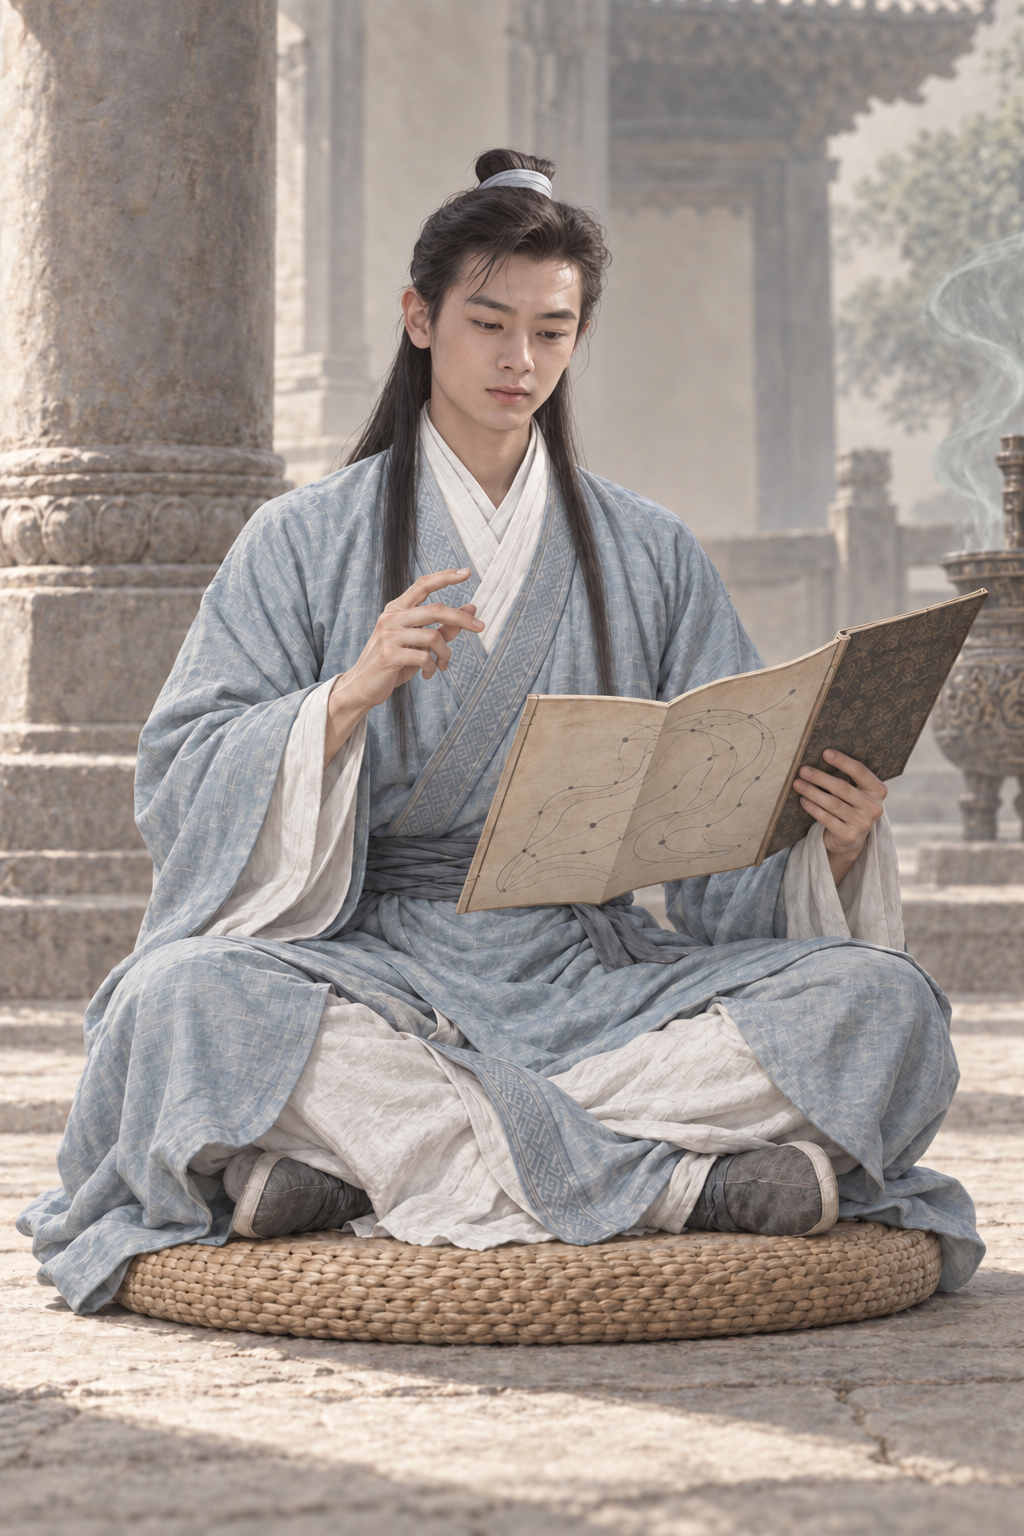
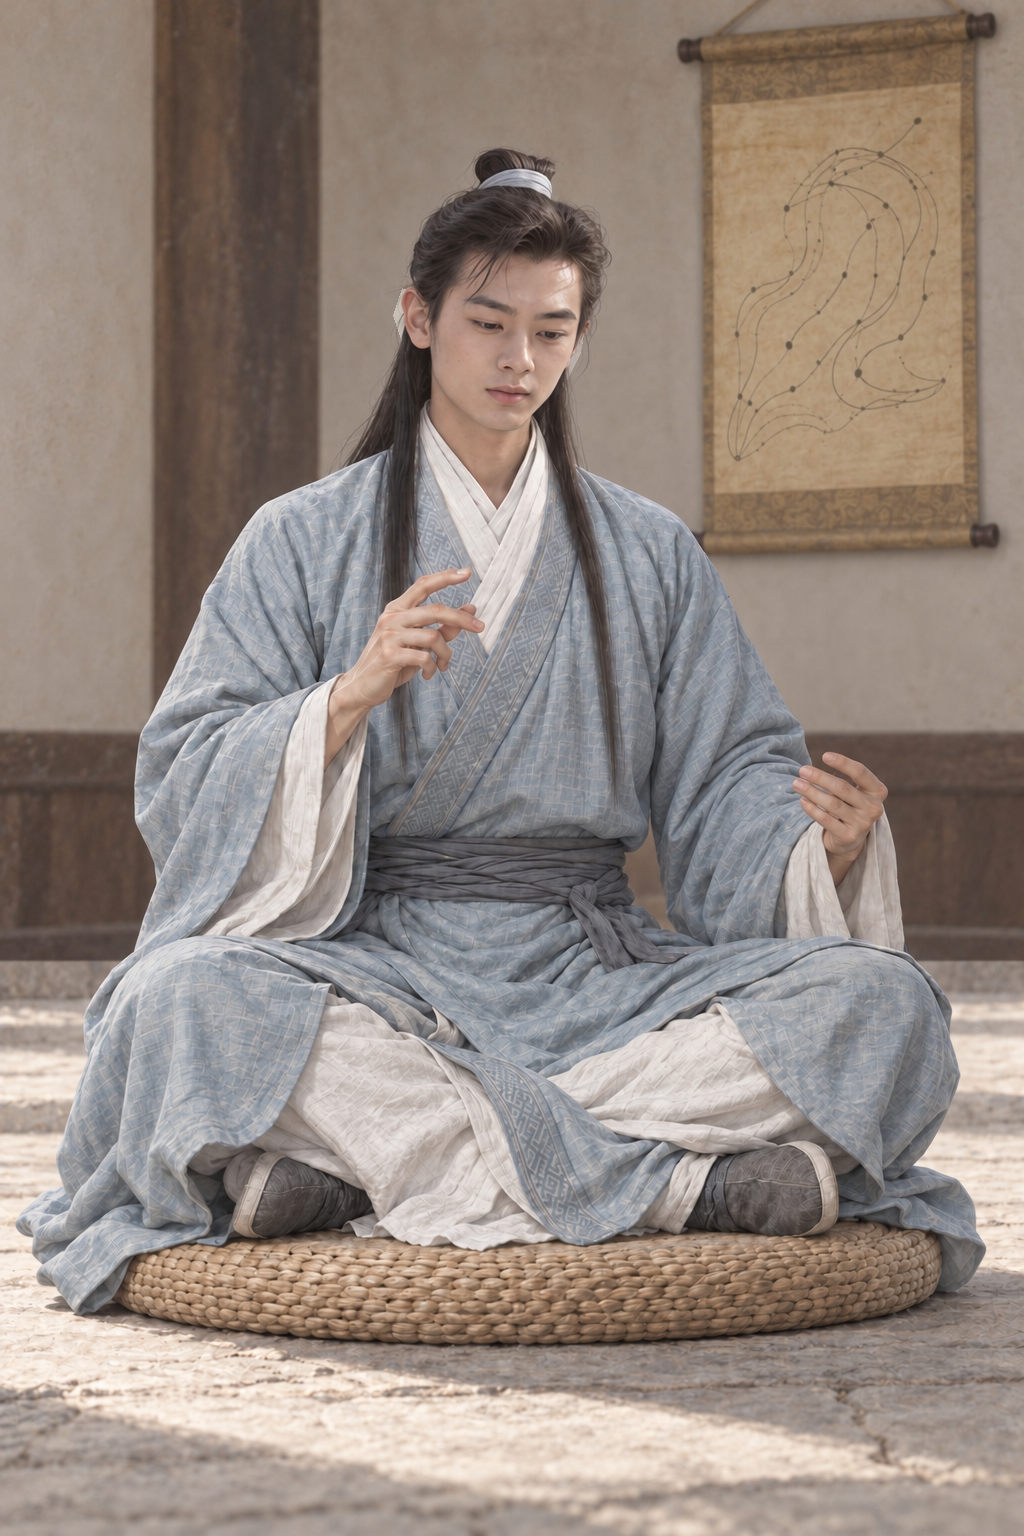
assets: AR-82 原著核对返修 段誉六脉剑谱改悬壁帛轴
原著摘句已同步提示词；已打开验图；蒙版外0像素变化。

Executed-By: Codex gpt-6.1-sol（AR-82）

diff --git a/assets/default/prompts/characters/ch01-tianlong/npc_duanyu__scene_tianlongtemple_first_sword.md b/assets/default/prompts/characters/ch01-tianlong/npc_duanyu__scene_tianlongtemple_first_sword.md
@@ -102,3 +102,8 @@ Create a premium REALISTIC Chinese wuxia character illustration with a delicate 
 - 采用作者授权宽松自查；偏差如实记录，candidate不代表approved。
 - 源PNG通常为1024×1536 RGB；其他原生2:3尺寸如实登记，原字节保存，不裁切、重编码、放大或去除溯源。
 - 完整请求、实际参考哈希及旧版本备份见 `.agents/coord/portrait-generation/realism-20261001/por_npc_duanyu__ch01_youth_scene_tianlongtemple_first_sword.prepared.json`。
+
+## 原著依据
+
+- 《天龙八部》第十回 剑气碧烟横：“悬在壁上，卷轴舒开”；https://www.xuges.com/wuxia/jinyong/tlbb/073.htm
+- AR-82 返修约束（本节优先于历史提示词）：移除段誉手中装订厚书，保留两手现有指力初悟手势，把剑气路线画在右上墙面展开的焦黄帛轴上，两端木轴清楚，薄帛自然垂挂。仅把背景寺院廊柱场地改为天龙寺室内素墙，不改坐姿、蒲团和衣服。段誉仍在参悟，眼神朝剑图方向，脸及头部完全保持原图。
